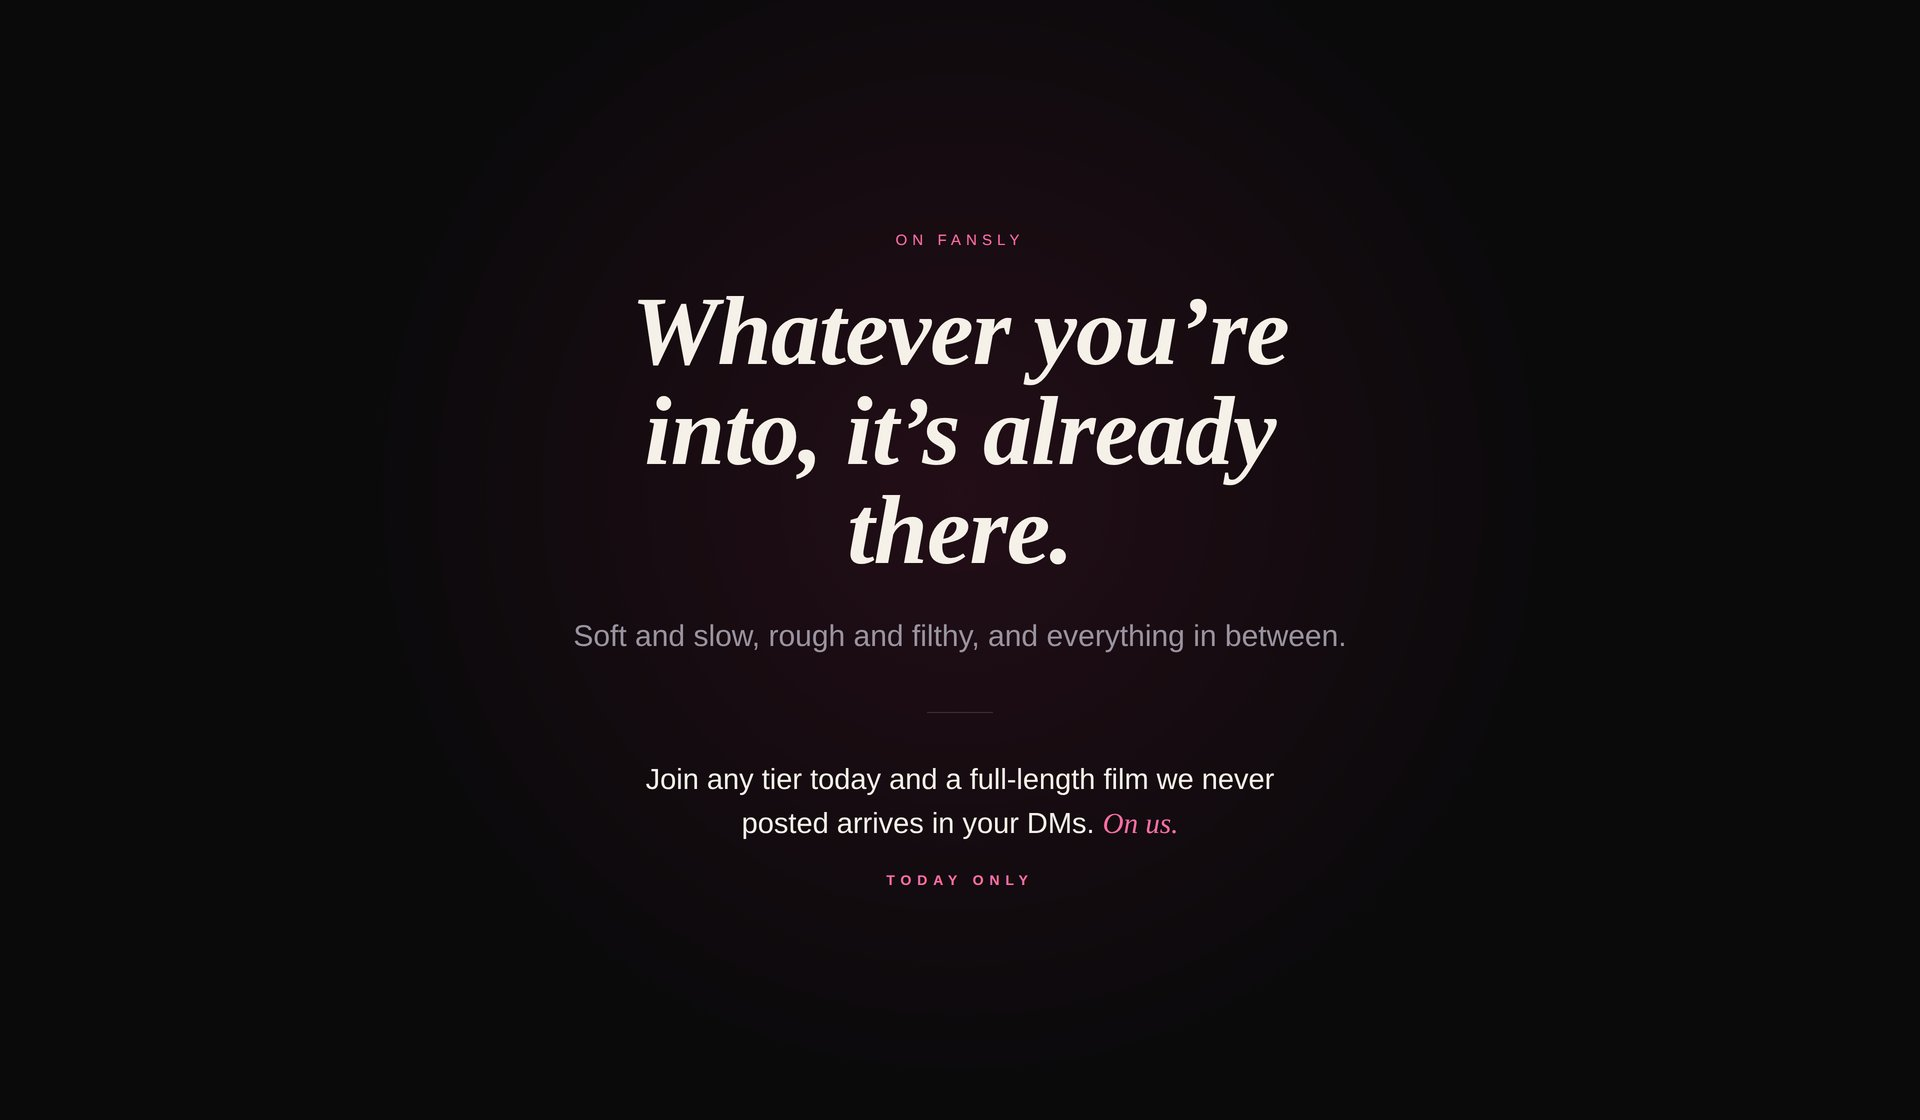
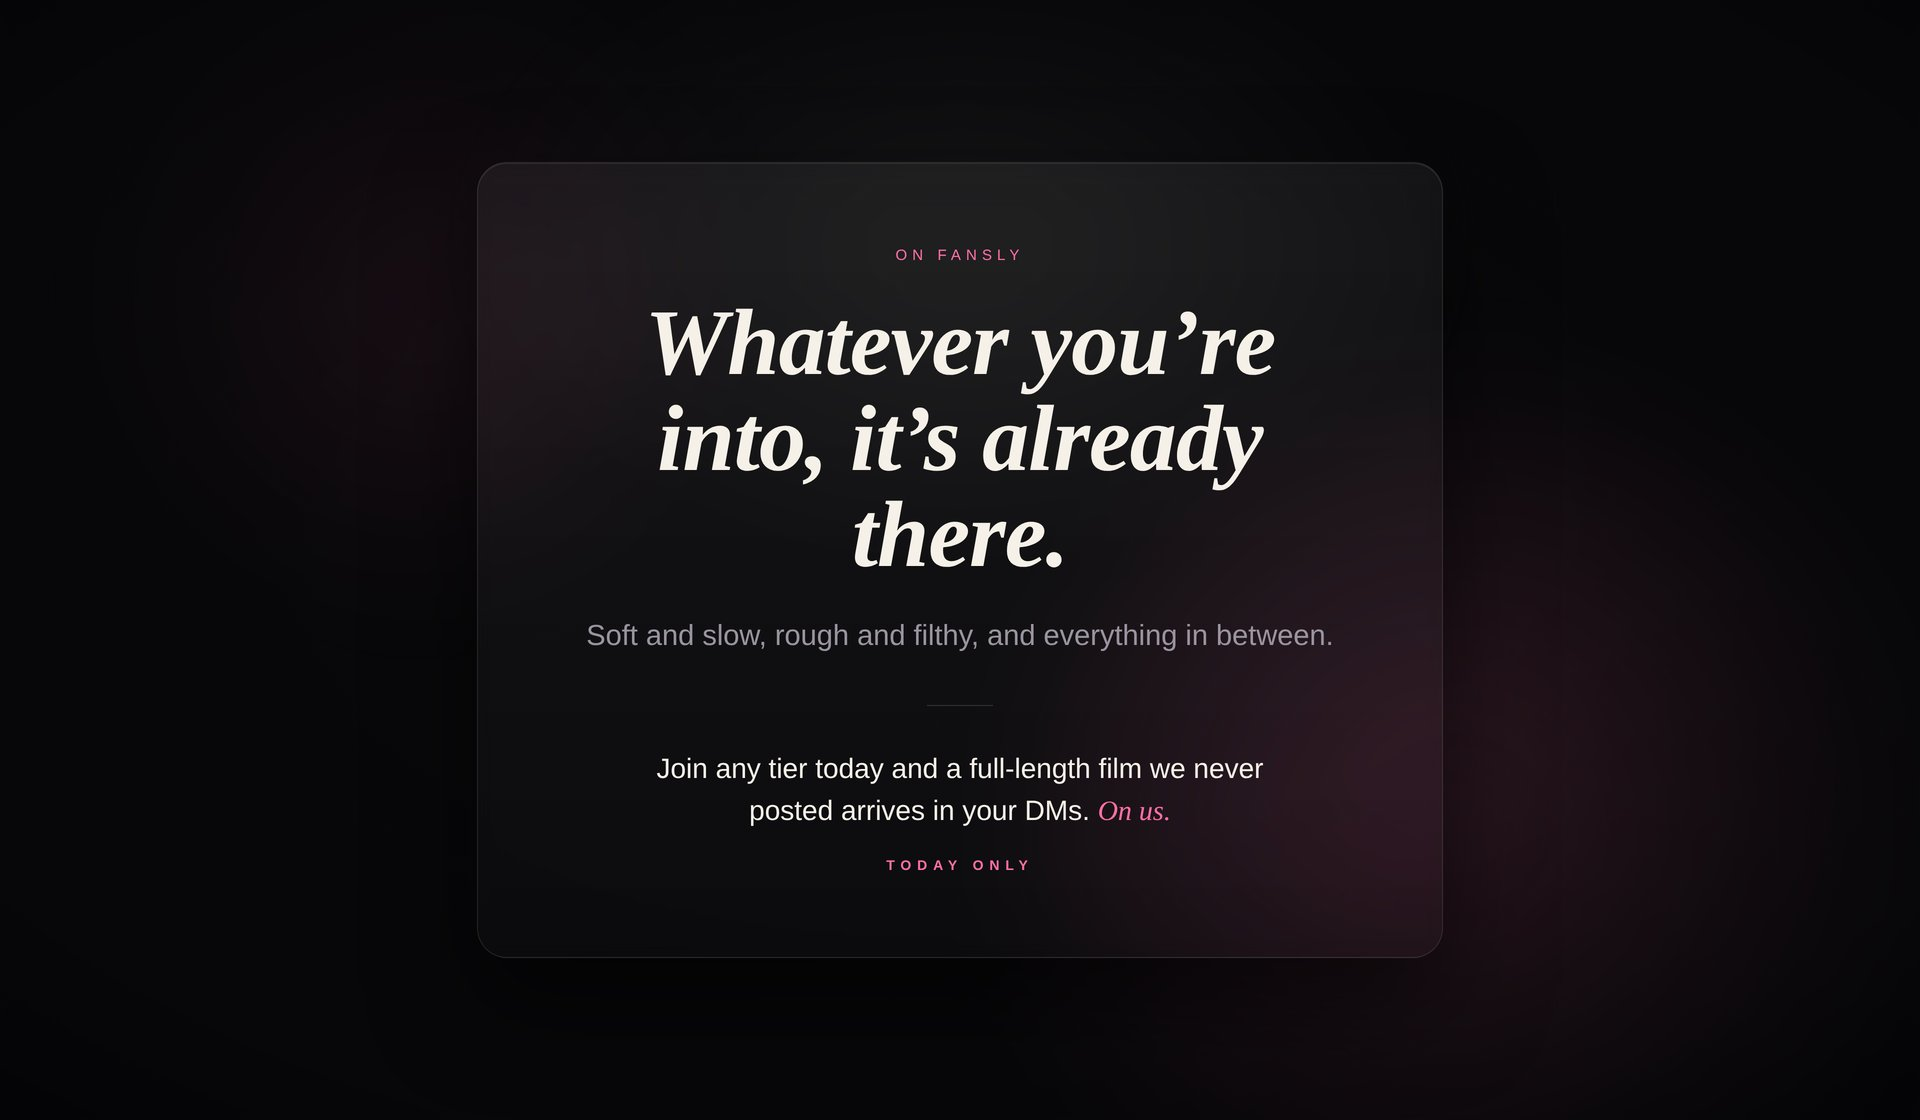
Offer: frosted-glass panel + aurora depth (glassmorphism)
Claude-Session: https://claude.ai/code/session_01RtbiUYFNdswaq59EqqYNLn

Changed region(s): [[0.2812, 0.5625, 0.75, 0.8438], [0.3125, 0.25, 0.6875, 0.5312], [0.4688, 0.1875, 0.5312, 0.25]]

diff --git a/fg-offer.html b/fg-offer.html
@@ -5,25 +5,40 @@
 <style>
   :root{--warm:#F5F1E9;--mute:#9a94a0;--hot:#FF6FA5;--line:rgba(245,241,233,.16);}
   *{box-sizing:border-box;margin:0;padding:0;}
-  .bar{width:1920px;height:1120px;background:#0A0A0B;font-family:'Inter',sans-serif;color:var(--warm);
-    display:flex;align-items:center;justify-content:center;padding:0 260px;position:relative;overflow:hidden;text-align:center;}
-  .wash{position:absolute;left:50%;top:44%;width:1500px;height:1500px;transform:translate(-50%,-50%);
-    background:radial-gradient(circle,rgba(255,46,126,.10) 0%,rgba(255,46,126,0) 58%);}
-  .in{position:relative;display:flex;flex-direction:column;align-items:center;max-width:1180px;}
-  .eyebrow{font-weight:500;font-size:15px;letter-spacing:.34em;text-transform:uppercase;color:var(--hot);margin-bottom:34px;}
-  h1{font-family:'Fraunces',serif;font-style:italic;font-weight:600;font-size:98px;line-height:1.02;letter-spacing:-.01em;max-width:15ch;}
-  .sub{margin-top:34px;font-size:30px;font-weight:300;line-height:1.4;color:var(--mute);max-width:1000px;}
-  .rule{width:66px;height:1px;background:var(--line);margin:54px 0 46px;}
-  .offer{font-size:29px;font-weight:400;line-height:1.5;color:var(--warm);max-width:680px;}
+  .bar{width:1920px;height:1120px;background:#08080A;font-family:'Inter',sans-serif;color:var(--warm);
+    display:flex;align-items:center;justify-content:center;padding:0 200px;position:relative;overflow:hidden;text-align:center;}
+  /* aurora depth */
+  .a-warm{position:absolute;left:50%;top:22%;width:1500px;height:1000px;transform:translate(-50%,-50%);
+    background:radial-gradient(ellipse 50% 50% at 50% 50%,rgba(245,241,233,.06) 0%,rgba(245,241,233,0) 70%);filter:blur(30px);}
+  .a-pink{position:absolute;left:76%;top:74%;width:1150px;height:1150px;transform:translate(-50%,-50%);
+    background:radial-gradient(circle,rgba(255,111,165,.16) 0%,rgba(255,111,165,0) 62%);filter:blur(44px);}
+  .a-pink2{position:absolute;left:22%;top:26%;width:820px;height:820px;transform:translate(-50%,-50%);
+    background:radial-gradient(circle,rgba(255,111,165,.08) 0%,rgba(255,111,165,0) 60%);filter:blur(46px);}
+  .vig{position:absolute;inset:0;background:radial-gradient(ellipse 72% 70% at 50% 46%,rgba(8,8,10,0) 42%,rgba(6,6,8,.55) 84%,rgba(4,4,6,.85) 100%);}
+  /* frosted glass card */
+  .glass{position:relative;z-index:2;display:flex;flex-direction:column;align-items:center;
+    max-width:1180px;padding:84px 108px;border-radius:30px;
+    background:linear-gradient(180deg,rgba(255,255,255,.055) 0%,rgba(255,255,255,.018) 100%);
+    border:1px solid rgba(245,241,233,.10);
+    box-shadow:0 44px 100px rgba(0,0,0,.55),inset 0 1px 0 rgba(255,255,255,.08);
+    backdrop-filter:blur(8px) saturate(115%);-webkit-backdrop-filter:blur(8px) saturate(115%);}
+  .eyebrow{font-weight:500;font-size:15px;letter-spacing:.34em;text-transform:uppercase;color:var(--hot);margin-bottom:32px;}
+  h1{font-family:'Fraunces',serif;font-style:italic;font-weight:600;font-size:94px;line-height:1.02;letter-spacing:-.01em;max-width:15ch;}
+  .sub{margin-top:32px;font-size:29px;font-weight:300;line-height:1.4;color:var(--mute);max-width:900px;}
+  .rule{width:66px;height:1px;background:var(--line);margin:48px 0 42px;}
+  .offer{font-size:28px;font-weight:400;line-height:1.5;color:var(--warm);max-width:660px;}
   .offer em{font-family:'Fraunces',serif;font-style:italic;font-weight:500;color:var(--hot);}
-  .scar{margin-top:26px;font-weight:600;font-size:14px;letter-spacing:.42em;text-transform:uppercase;color:var(--hot);}
+  .scar{margin-top:24px;font-weight:600;font-size:14px;letter-spacing:.42em;text-transform:uppercase;color:var(--hot);}
 </style></head>
 <body>
 <div class="bar">
-  <div class="wash"></div>
-  <div class="in">
+  <div class="a-warm"></div>
+  <div class="a-pink"></div>
+  <div class="a-pink2"></div>
+  <div class="vig"></div>
+  <div class="glass">
     <div class="eyebrow">On Fansly</div>
-    <h1>Whatever you’re into, it’s already there.</h1>
+    <h1>Whatever you&#8217;re into, it&#8217;s already there.</h1>
     <div class="sub">Soft and slow, rough and filthy, and everything in between.</div>
     <div class="rule"></div>
     <div class="offer">Join any tier today and a full-length film we never posted arrives in your DMs. <em>On us.</em></div>
